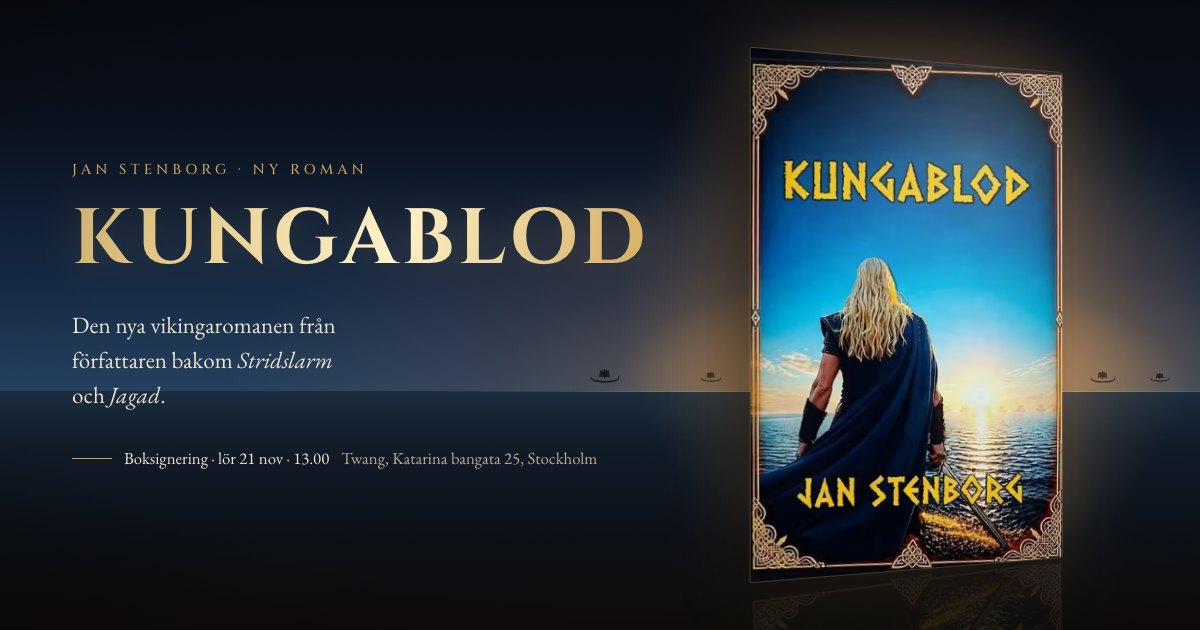
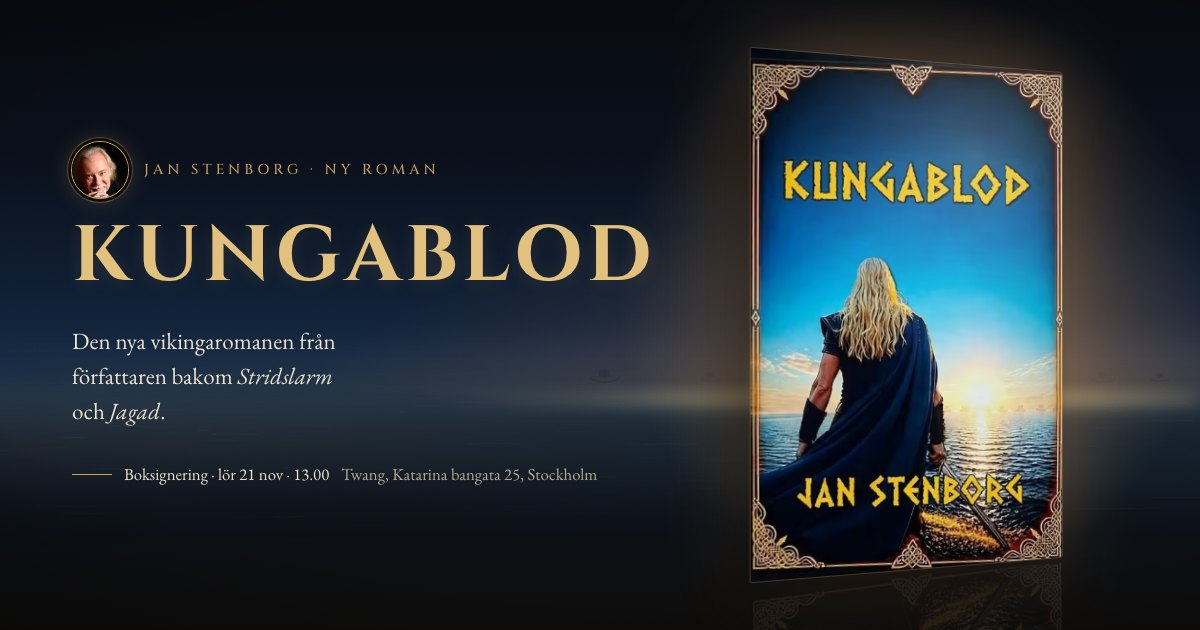
Add Jan's round portrait beside his name in the hero
- Small portrait in a gold ring beside "Jan Stenborg · Ny roman"
  (56px desktop, 46px phones, 38px short phones), 2-3KB images
- Name line kept on one line on phones with tighter tracking
- Share image regenerated with the portrait

Verified in Chromium and WebKit at six sizes in both languages: one
line, no overflow, gold button still on the first screen everywhere,
axe 0, all tests pass.

diff --git a/index.html b/index.html
@@ -209,7 +209,15 @@
 
     <div class="wrap hero-inner">
       <div class="hero-text" data-depth="text">
-        <p class="eyebrow hero-in" style="--i:0">Jan Stenborg · <span lang="sv">Ny roman</span><span lang="en">New novel</span></p>
+        <!-- Jan's face beside his name, so visitors who know him recognise it at once -->
+        <p class="eyebrow hero-byline hero-in" style="--i:0">
+          <picture class="hero-avatar">
+            <source type="image/avif" srcset="images/jan-avatar-112.avif 112w, images/jan-avatar-168.avif 168w" sizes="56px">
+            <source type="image/webp" srcset="images/jan-avatar-112.webp 112w, images/jan-avatar-168.webp 168w" sizes="56px">
+            <img src="images/jan-avatar.jpg" width="56" height="56" alt="">
+          </picture>
+          <span>Jan Stenborg · <span lang="sv">Ny roman</span><span lang="en">New novel</span></span>
+        </p>
         <h1 class="hero-title hero-in" aria-label="Kungablod" style="--i:1"><span class="hero-letter" aria-hidden="true" style="--letter:0">K</span><span class="hero-letter" aria-hidden="true" style="--letter:1">u</span><span class="hero-letter" aria-hidden="true" style="--letter:2">n</span><span class="hero-letter" aria-hidden="true" style="--letter:3">g</span><span class="hero-letter" aria-hidden="true" style="--letter:4">a</span><span class="hero-letter" aria-hidden="true" style="--letter:5">b</span><span class="hero-letter" aria-hidden="true" style="--letter:6">l</span><span class="hero-letter" aria-hidden="true" style="--letter:7">o</span><span class="hero-letter" aria-hidden="true" style="--letter:8">d</span></h1>
         <p class="lead hero-in" style="--i:2">
           <span lang="sv">Den nya vikingaromanen från författaren bakom <em>Stridslarm</em> och <em>Jagad</em>.</span>

diff --git a/styles.css b/styles.css
@@ -316,6 +316,20 @@ html.menu-open { overflow: hidden; }
   font-family: var(--heading); font-weight: 500; color: var(--gold); letter-spacing: .28em;
   text-transform: uppercase; font-size: .9rem; margin-bottom: .9em;
 }
+/* Jan's portrait beside his name: a small circle in a gold ring, lit like the dawn behind the book */
+.hero-byline { display: flex; align-items: center; gap: 16px; }
+.hero-avatar { flex: none; width: 56px; height: 56px; border-radius: 50%; }
+.hero-avatar img {
+  width: 100%; height: 100%; object-fit: cover; border-radius: 50%;
+  box-shadow: 0 0 0 1px var(--gold), 0 0 0 4px var(--bg), 0 0 0 5px rgba(201, 164, 92, .35), 0 0 26px rgba(255, 200, 120, .28);
+}
+@media (max-width: 820px) {
+  .hero-byline { gap: 12px; font-size: .8rem; letter-spacing: .2em; white-space: nowrap; }   /* one line beside the portrait */
+  .hero-avatar { width: 46px; height: 46px; }
+}
+@media (max-width: 360px) { .hero-byline { font-size: .72rem; letter-spacing: .16em; } }
+@media (max-width: 820px) and (max-height: 700px) { .hero-avatar { width: 38px; height: 38px; } }
+
 .hero-title {
   font-size: clamp(2.4rem, 8.5vw, 4.9rem); letter-spacing: .05em; text-transform: uppercase;
   margin-bottom: .3em; color: var(--gold-bright);
